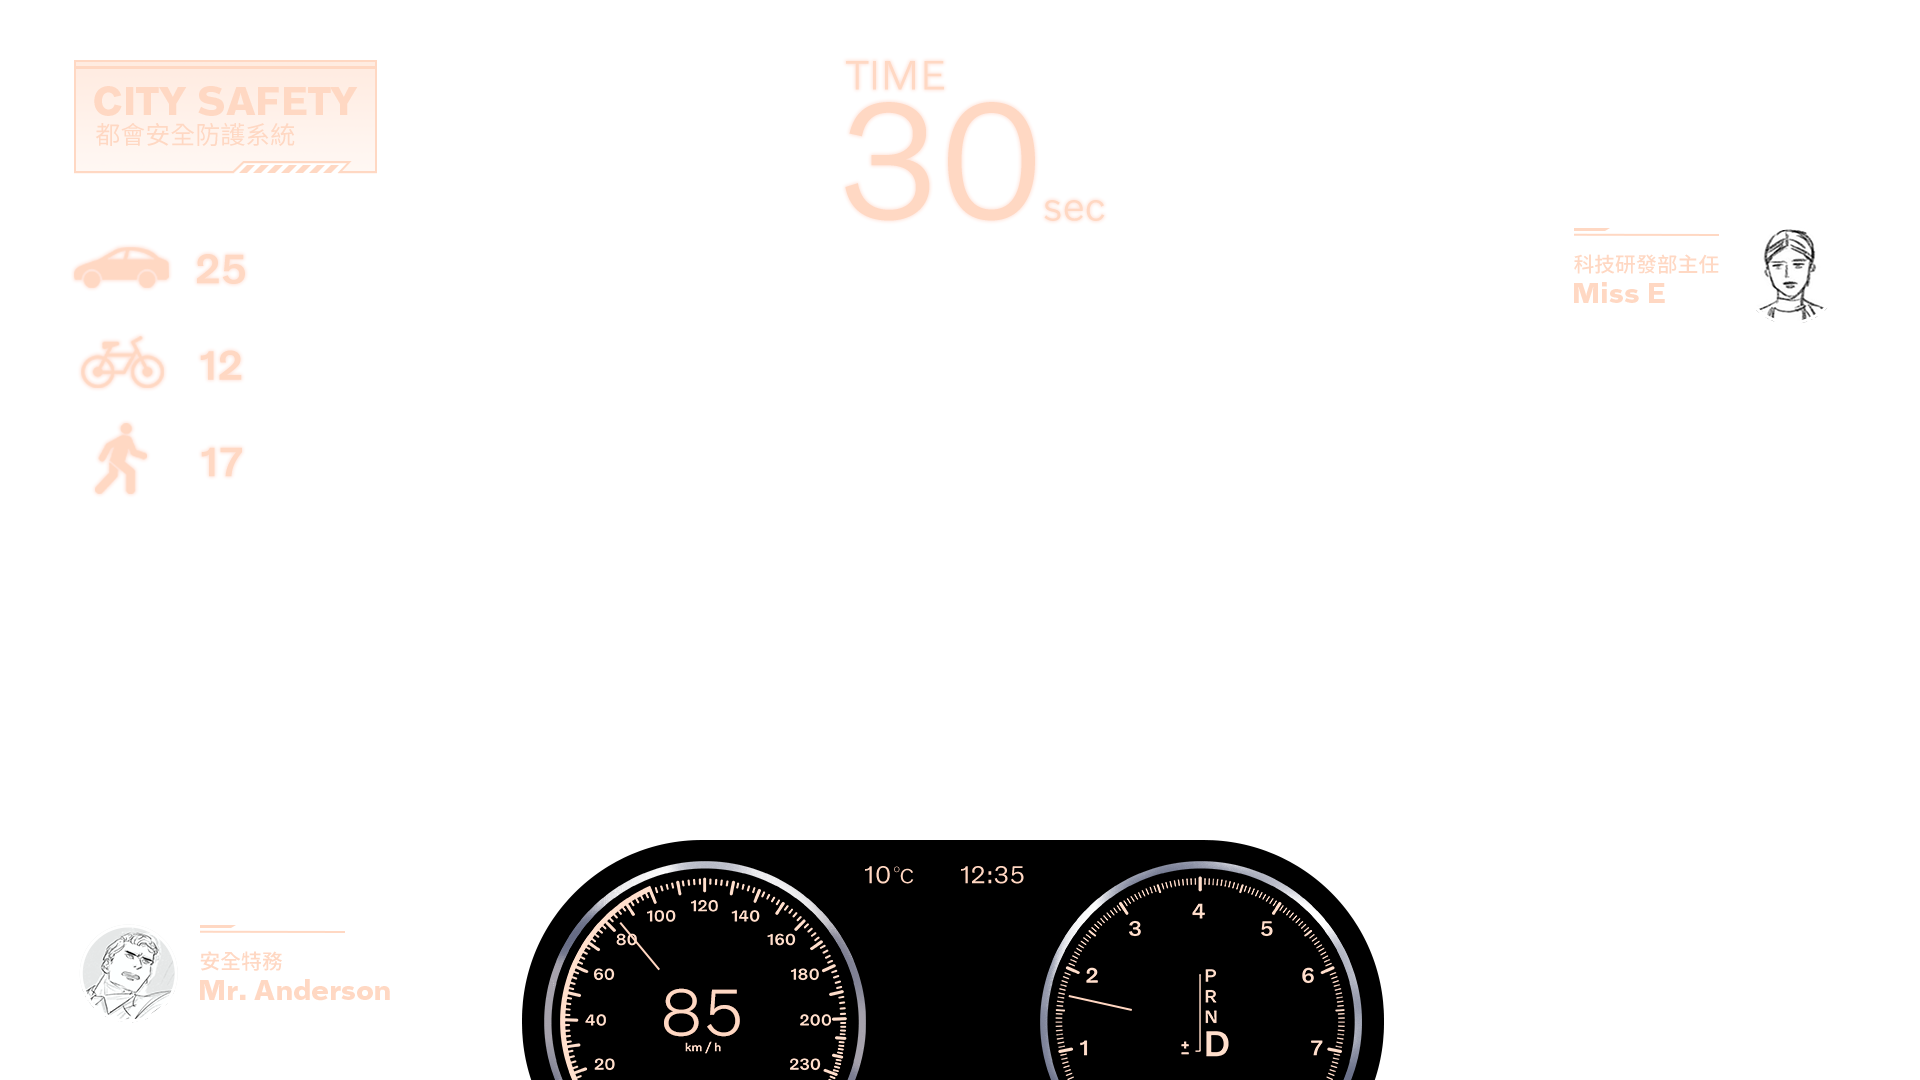
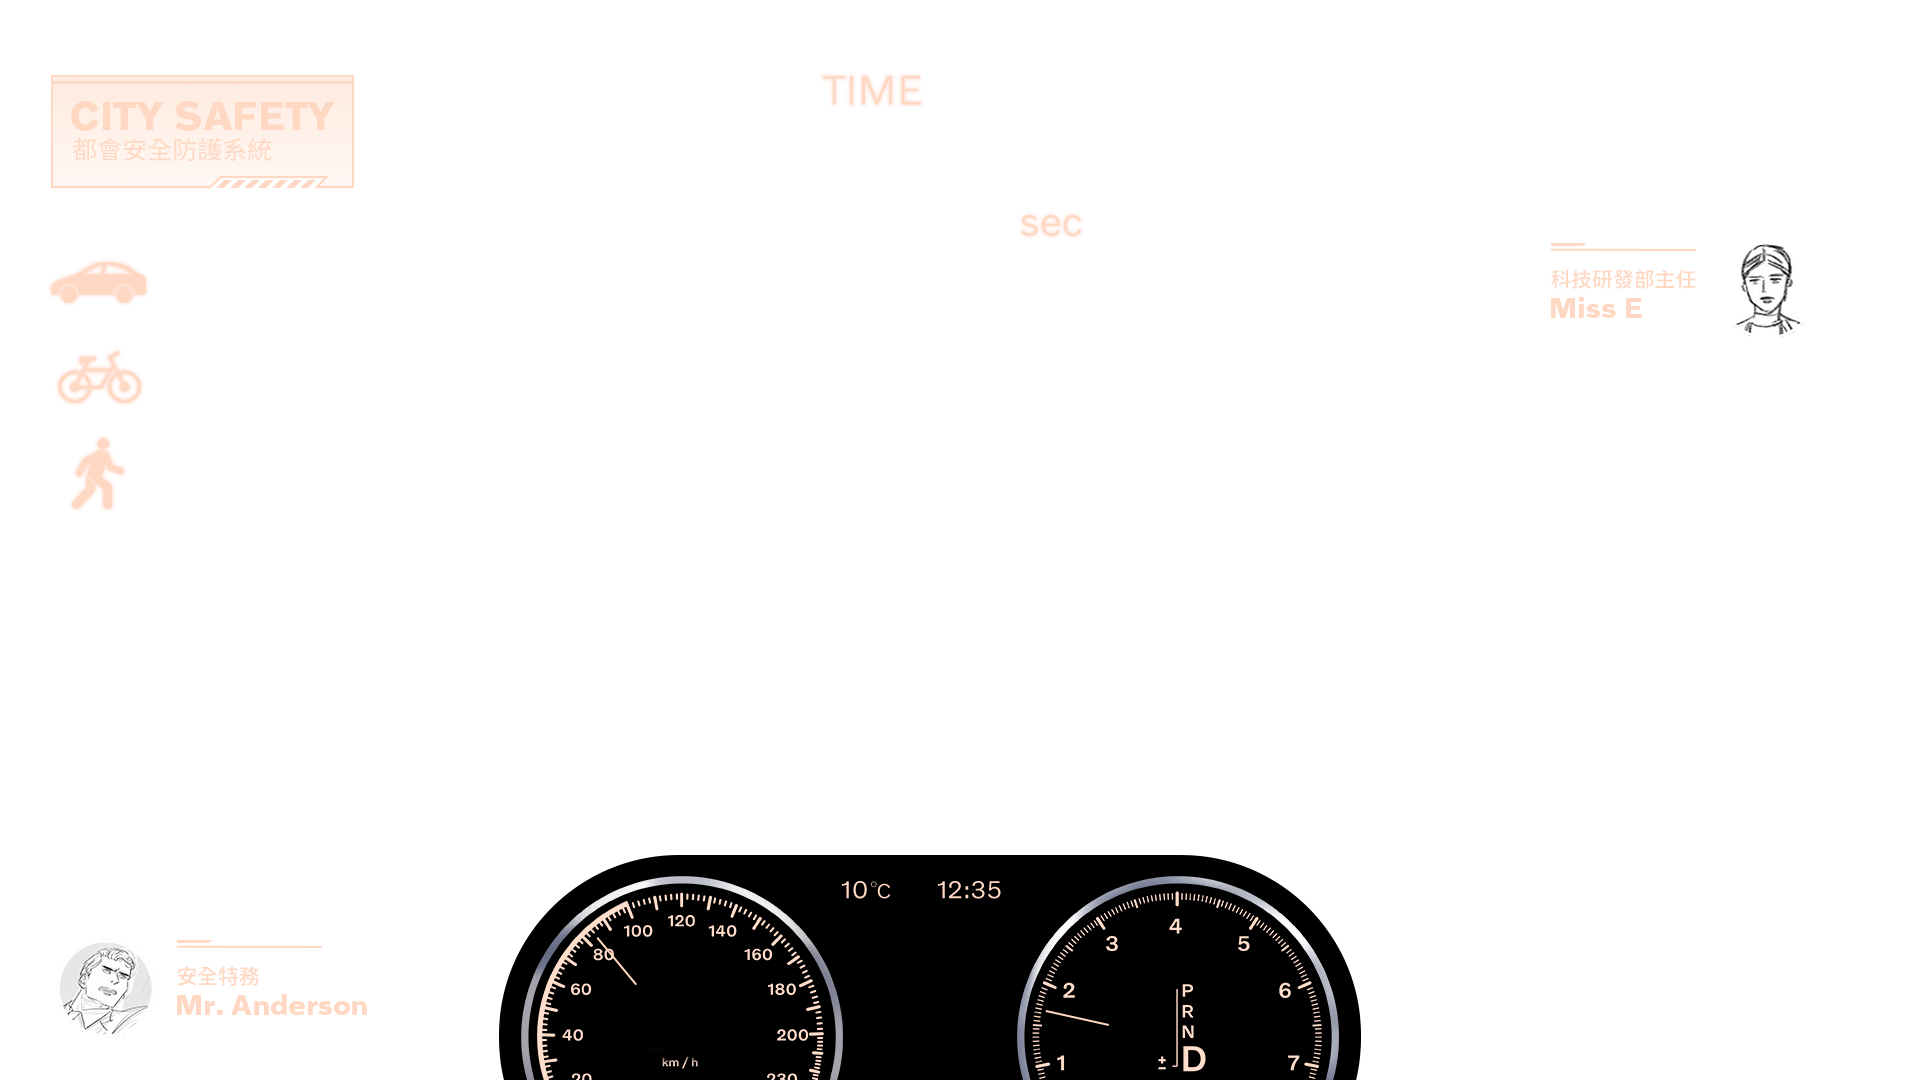
＊update stage1, 2 UI

diff --git a/site_dev/volvo_frontend/src/gamejs/game1Setup.js b/site_dev/volvo_frontend/src/gamejs/game1Setup.js
@@ -11,19 +11,19 @@ function game1Setup(Vars){
 
     game1Data.timeText = new PIXI.Text("Time", new PIXI.TextStyle({
         fontSize: 52,
-        fill: '#FFD25D',
+        fill: '#FFD3BE',
         fontWeight: 500
     }));
     game1Data.timeText.position.set(common.app.screen.width/2, 60);
     game1Data.timeText.anchor.set(0.5, 0);
     
     game1Data.timeRemainingText = new PIXI.Text("30", new PIXI.TextStyle({
-        fontSize: 52,
-        fill: '#FFD25D',
+        fontSize: 150,
+        fill: '#FFD3BE',
         fontWeight: 500
     }));
 
-    game1Data.timeRemainingText.position.set(common.app.screen.width/2, 120);
+    game1Data.timeRemainingText.position.set(common.app.screen.width/2 - 30, 100);
     game1Data.timeRemainingText.anchor.set(0.5, 0);
     
     game1Data.hintRect =  new PIXI.Graphics();
@@ -87,23 +87,23 @@ function game1Setup(Vars){
 
     game1Data.carCounterText = new PIXI.Text("30", new PIXI.TextStyle({
         fontSize: 52,
-        fill: '#FFD25D',
+        fill: '#FFD3BE',
         fontWeight: 500
     }));
-    game1Data.carCounterText.position.set(190, 80+game1Data.mrImg.height+180);
+    game1Data.carCounterText.position.set(190, 80+game1Data.mrImg.height+100);
     game1Data.carCounterText.anchor.set(0, 0);
 
     game1Data.bikeCounterText = new PIXI.Text("30", new PIXI.TextStyle({
         fontSize: 52,
-        fill: '#FFD25D',
+        fill: '#FFD3BE',
         fontWeight: 500
     }));
-    game1Data.bikeCounterText.position.set(190, 80+game1Data.mrImg.height+240);
+    game1Data.bikeCounterText.position.set(190, 80+game1Data.mrImg.height+200);
     game1Data.bikeCounterText.anchor.set(0, 0);
 
     game1Data.walkCounterText = new PIXI.Text("30", new PIXI.TextStyle({
         fontSize: 52,
-        fill: '#FFD25D',
+        fill: '#FFD3BE',
         fontWeight: 500
     }));
     game1Data.walkCounterText.position.set(190, 80+game1Data.mrImg.height+300);
@@ -152,17 +152,20 @@ function game1Setup(Vars){
     // stage1.addChild(mrImg);
     // stage1.addChild(sysImg);
     // stage1.addChild(countImg);
-    // stage1.addChild(carCounterText);
-    // stage1.addChild(bikeCounterText);
-    // stage1.addChild(walkCounterText);
+    common.stage1.addChild(game1Data.carCounterText);
+    common.stage1.addChild(game1Data.bikeCounterText);
+    common.stage1.addChild(game1Data.walkCounterText);
     common.stage1.addChild(game1Data.pedalWarning);
     common.stage1.addChild(game1Data.pedal);
     // stage1.addChild(timeText);
-    // stage1.addChild(timeRemainingText);
+    common.stage1.addChild(game1Data.timeRemainingText);
     common.stage1.addChild(common.prePlayStartTextG1);
     common.stage1.addChild(game1Data.hintRect);
     common.stage1.addChild(game1Data.hintTextG1);
     common.stage1.addChild(game1Data.g1Ui);
+
+    game1Data.speedDownSound = PIXI.loader.resources.speedDownSound.data;
+    game1Data.speedDownSound.volume = 1;
     
 }
 
@@ -232,9 +235,11 @@ function generateCrossingGroup(){
         }else if(game1Data.crossObjects[i].type == "walk"){
             t = PIXI.loader.resources.walkImg.texture;
             s = new PIXI.projection.Sprite2d(t);
+            s.scale.set(1.4 );
         }else if(game1Data.crossObjects[i].type == "bike"){
             t = PIXI.loader.resources.bikeImg.texture;
             s = new PIXI.projection.Sprite2d(t);
+            s.scale.set(2);
         }
 
         s.type = game1Data.crossObjects[i].type;

diff --git a/site_dev/volvo_frontend/src/gamejs/game1Loop.js b/site_dev/volvo_frontend/src/gamejs/game1Loop.js
@@ -29,7 +29,7 @@ function game1Loop(Vars){
             isInDangerZone = true;
         }
         
-        if(s.counterY<20000){
+        if(s.counterY<8000){
             if(s.visible==false){
                 s.visible = true;
                 TweenMax.fromTo(s, 1,{alpha:0}, {alpha:1});
@@ -45,11 +45,11 @@ function game1Loop(Vars){
 		if(s.counterY < 8000){
             
             if(s.type == "car"){
-                s.counterX += 30*sideVal;
+                s.counterX += 45*sideVal;
             }else if(s.type == "walk"){
-                s.counterX += 8*sideVal;
+                s.counterX += 12*sideVal;
             }else if(s.type == "bike"){
-                s.counterX += 15*sideVal;
+                s.counterX += 23*sideVal;
             }
 
 
@@ -81,9 +81,9 @@ function game1Loop(Vars){
 
 
     if(!game1Data.pressStop){
-        game1Data.groundMoveSpeedG1+=1;
-        if(game1Data.groundMoveSpeedG1>50){
-            game1Data.groundMoveSpeedG1 = 50;
+        game1Data.groundMoveSpeedG1+=5;
+        if(game1Data.groundMoveSpeedG1 > 100){
+            game1Data.groundMoveSpeedG1 = 100;
         }
     }else{
         game1Data.groundMoveSpeedG1-=2;
@@ -97,14 +97,16 @@ function game1Loop(Vars){
     
     if(game1Data.pressStop){
         if(game1Data.cityRoadAniBg.animationSpeed>0){
-            game1Data.cityRoadAniBg.animationSpeed -= 0.01;
+            game1Data.cityRoadAniBg.animationSpeed -= 0.02;
             if(game1Data.cityRoadAniBg.animationSpeed<0){
                 game1Data.cityRoadAniBg.animationSpeed = 0;
             }
         }
     }else{
-        if(game1Data.cityRoadAniBg.animationSpeed>1){
+        if(game1Data.cityRoadAniBg.animationSpeed < 0.05){
             game1Data.cityRoadAniBg.animationSpeed +=0.005;
+        }else if(game1Data.cityRoadAniBg.animationSpeed > 0.8){
+            game1Data.cityRoadAniBg.animationSpeed = 0.8;
         }
     }
     

diff --git a/site_dev/volvo_frontend/src/gamejs/game2Setup.js b/site_dev/volvo_frontend/src/gamejs/game2Setup.js
@@ -12,19 +12,19 @@ function game2Setup(Vars){
 
     game2Data.timeText_g2 = new PIXI.Text("Time", new PIXI.TextStyle({
         fontSize: 52,
-        fill: '#FFD25D',
+        fill: '#FFD3BE',
         fontWeight: 500
     }));
     game2Data.timeText_g2.position.set(common.app.screen.width/2, 60);
     game2Data.timeText_g2.anchor.set(0.5, 0);
     
     game2Data.timeRemainingText_g2 = new PIXI.Text("30", new PIXI.TextStyle({
-        fontSize: 52,
-        fill: '#FFD25D',
-        fontWeight: 'bold',
+        fontSize: 150,
+        fill: '#FFD3BE',
+        fontWeight: 500,
     }));
 
-    game2Data.timeRemainingText_g2.position.set(common.app.screen.width/2, 120);
+    game2Data.timeRemainingText_g2.position.set(common.app.screen.width/2-30, 100);
     game2Data.timeRemainingText_g2.anchor.set(0.5, 0);
 
     game2Data.hintRect_g2 =  new PIXI.Graphics();
@@ -133,7 +133,7 @@ function game2Setup(Vars){
     // stage2.addChild(mrImg_g2);
     // stage2.addChild(sysImg_g2);
     // stage2.addChild(timeText_g2);
-    // stage2.addChild(timeRemainingText_g2);
+    common.stage2.addChild(game2Data.timeRemainingText_g2);
     common.stage2.addChild(game2Data.rightBtn_g2);
     common.stage2.addChild(game2Data.leftBtn_g2);
     common.stage2.addChild(common.prePlayStartTextG2);

diff --git a/site_dev/volvo_frontend/src/gamejs/game1Init.js b/site_dev/volvo_frontend/src/gamejs/game1Init.js
@@ -40,6 +40,7 @@ function registerGame1Event(){
         if(game1Data.isPrePlaying) return;
         game1Data.pressStop = true;
         game1Data.pedal.tint = 0X555555;
+        
     });
 
     game1Data.pedal.on("pointerup",function(){
@@ -48,10 +49,34 @@ function registerGame1Event(){
         game1Data.pedal.tint = 0XFFFFFF;
         game1Data.cityRoadAniBg.animationSpeed = game1Data.bgAnimationSpeed;
     });
+
+    $( "body" ).keydown(function(e) {
+        let k = e.keyCode;
+        if(k==32){
+            if(game1Data.isPrePlaying) return;
+            game1Data.pressStop = true;
+            game1Data.pedal.tint = 0X555555;
+            
+        }
+    });
+
+    $( "body" ).keyup(function(e) {
+        let k = e.keyCode;
+        if(k==32){
+            if(game1Data.isPrePlaying) return;
+            game1Data.pressStop = false;
+            game1Data.pedal.tint = 0XFFFFFF;
+            game1Data.cityRoadAniBg.animationSpeed = game1Data.bgAnimationSpeed;
+        }
+    });
+
+
     
     $( "body" ).keydown(function(e) {
-        
         let k = e.keyCode;
+        if(k==32){
+
+        }
         console.log(k);
         switch (k) {
             case 37:

diff --git a/site_dev/volvo_frontend/src/gamejs/globalVariables.js b/site_dev/volvo_frontend/src/gamejs/globalVariables.js
@@ -99,7 +99,7 @@ let game1Data = {
     groupSpeedMin : 0.05,
     groupSpeed : 2,
     pressStop : false,
-    bgAnimationSpeed : 0.2,
+    bgAnimationSpeed : 1,
     
     cityRoad : null,
     cityRoadAniBg : null,
@@ -130,6 +130,7 @@ let game1Data = {
     roadWidth : 2600,
     lineGroup : null,
     hintTextG1 : null,
+    speedDownSound: null
 }
 
 let game2Data = {
